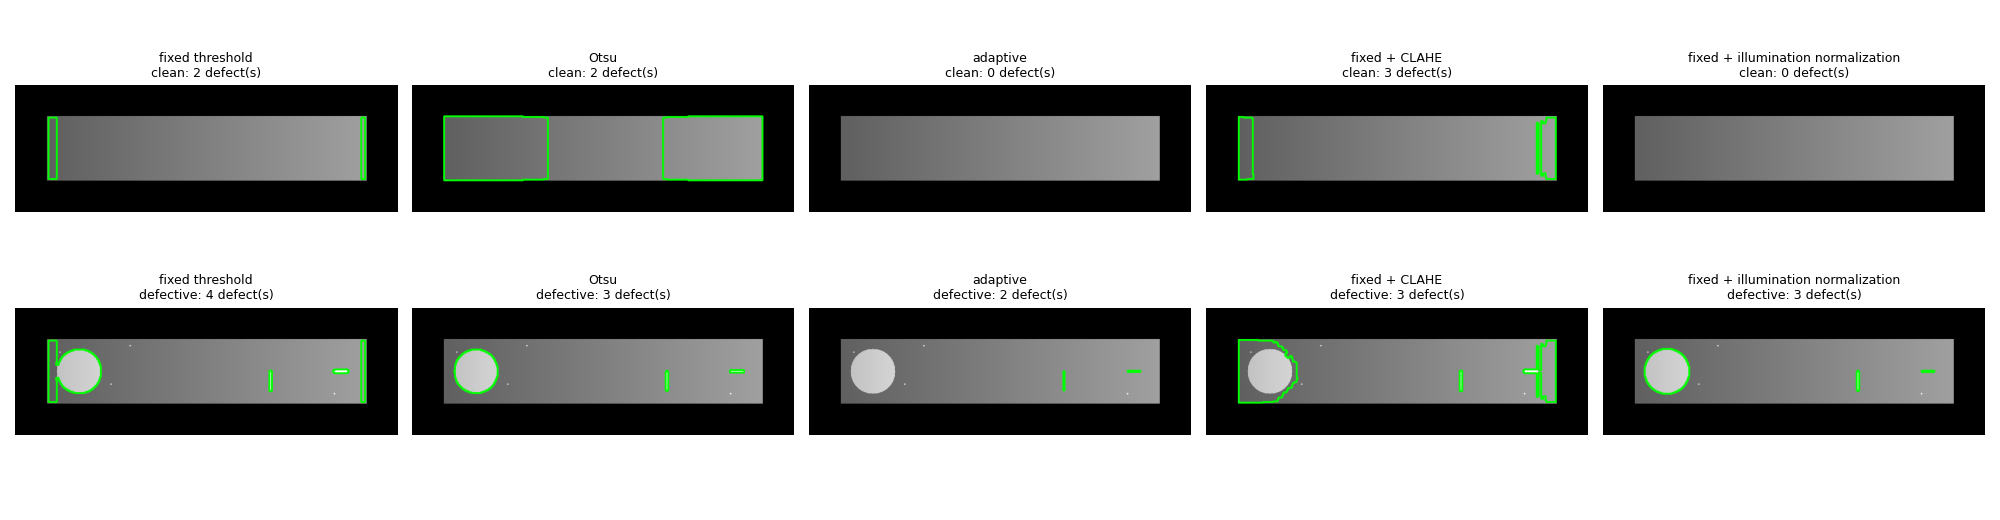
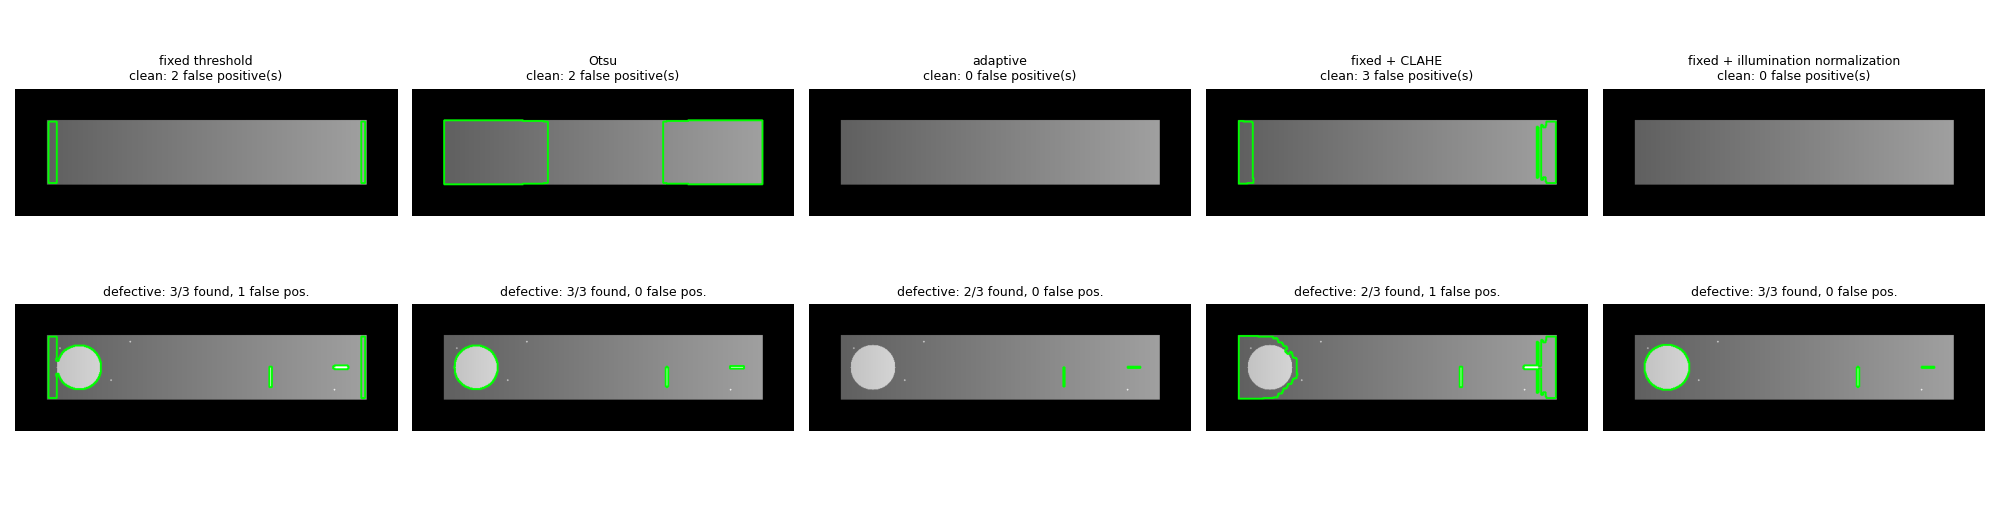
feat: add reference alignment (template matching, ECC) and detection scoring

diff --git a/demo.py b/demo.py
@@ -2,13 +2,22 @@ import cv2
 import matplotlib.pyplot as plt
 
 from src.defect_detector import WireDefectInspector
-from src.utils import apply_lighting_gradient, make_reference, make_test
+from src.utils import apply_lighting_gradient, make_reference, make_test, misalign, score_detections
 
 
 def show(ax, img_bgr, title):
     ax.imshow(cv2.cvtColor(img_bgr, cv2.COLOR_BGR2RGB))
     ax.set_title(title, fontsize=9)
     ax.axis("off")
+
+
+def evaluate(inspector, clean_img, defect_img):
+    """Run one inspector on a clean and a defective image; return both results plus scores."""
+    clean_result = inspector.inspect(clean_img)
+    defect_result = inspector.inspect(defect_img)
+    clean_fp = len(clean_result["defects"])  # on a clean part, every detection is a false positive
+    found, defect_fp = score_detections(defect_result["defects"])
+    return clean_result, defect_result, clean_fp, found, defect_fp
 
 
 def basic_demo(ref):
@@ -43,31 +52,75 @@ def lighting_demo(ref, left=0.7, right=1.3):
         "fixed + CLAHE": dict(use_clahe=True),
         "fixed + illumination\nnormalization": dict(normalize_illumination=True),
     }
-    parts = {
-        "clean": apply_lighting_gradient(make_test(ref, False, False, False, False), left, right),
-        "defective": apply_lighting_gradient(make_test(ref), left, right),
-    }
+    clean_img = apply_lighting_gradient(make_test(ref, False, False, False, False), left, right)
+    defect_img = apply_lighting_gradient(make_test(ref), left, right)
 
-    print(f"\nLighting gradient {left}-{right}  (real defects in the defective part: 3)")
-    print(f"{'method':38s}{'clean part':>12s}{'defective part':>16s}")
-    fig, axs = plt.subplots(len(parts), len(methods), figsize=(4 * len(methods), 2.6 * len(parts)))
+    print(f"\nLIGHTING: gradient {left}-{right}")
+    print(f"{'method':38s}{'clean: false pos':>18s}{'defective: found':>18s}{'false pos':>11s}")
+    fig, axs = plt.subplots(2, len(methods), figsize=(4 * len(methods), 5.2))
     for col, (name, kwargs) in enumerate(methods.items()):
-        inspector = WireDefectInspector(ref, **kwargs)
-        found = {}
-        for row, (part, img) in enumerate(parts.items()):
-            result = inspector.inspect(img)
-            found[part] = len(result["defects"])
-            show(axs[row][col], result["defect_img"], f"{name.replace(chr(10), ' ')}\n{part}: {found[part]} defect(s)")
-        print(f"{name.replace(chr(10), ' '):38s}{found['clean']:>12d}{found['defective']:>16d}")
+        flat = name.replace("\n", " ")
+        c, d, clean_fp, found, defect_fp = evaluate(WireDefectInspector(ref, **kwargs), clean_img, defect_img)
+        print(f"{flat:38s}{clean_fp:>18d}{found:>15d}/3{defect_fp:>11d}")
+        show(axs[0][col], c["defect_img"], f"{flat}\nclean: {clean_fp} false positive(s)")
+        show(axs[1][col], d["defect_img"], f"defective: {found}/3 found, {defect_fp} false pos.")
 
     fig.tight_layout()
     fig.savefig("demo_lighting.png", dpi=100)
+
+
+def alignment_demo(ref):
+    """Parts that arrive shifted or rotated. Does aligning to the reference first help?"""
+    methods = {
+        "no alignment": dict(),
+        "template matching": dict(align="template"),
+        "ECC": dict(align="ecc"),
+        "ECC + illumination norm.": dict(align="ecc", normalize_illumination=True),
+    }
+    # (label, dx, dy, rotation in degrees, lighting gradient or None)
+    misalignments = [
+        ("shift (3, 4) px", 3, 4, 0, None),
+        ("shift (-5, 5) px", -5, 5, 0, None),
+        ("subpixel shift (1.5, -2.5)", 1.5, -2.5, 0, None),
+        ("rotation 1.5 deg", 0, 0, 1.5, None),
+        ("shift (4, -3) + rot 2 deg", 4, -3, 2, None),
+        ("shift (4, -3) + rot 2 + uneven light", 4, -3, 2, (0.7, 1.3)),
+    ]
+    clean_base = make_test(ref, False, False, False, False)
+    defect_base = make_test(ref)
+
+    def prepare(img, dx, dy, angle, light):
+        img = misalign(img, dx, dy, angle)
+        return apply_lighting_gradient(img, *light) if light else img
+
+    print("\nALIGNMENT: real defects found (of 3) / false positives  [clean part false positives]")
+    print(f"{'misalignment':40s}" + "".join(f"{name:>26s}" for name in methods))
+    hard = {}
+    for label, dx, dy, angle, light in misalignments:
+        clean_img = prepare(clean_base, dx, dy, angle, light)
+        defect_img = prepare(defect_base, dx, dy, angle, light)
+        row = f"{label:40s}"
+        for name, kwargs in methods.items():
+            c, d, clean_fp, found, defect_fp = evaluate(WireDefectInspector(ref, **kwargs), clean_img, defect_img)
+            row += f"{f'{found}/3, {defect_fp} fp  [{clean_fp}]':>26s}"
+            if label.startswith("shift (4, -3) + rot 2 deg"):
+                hard[name] = (c, d, clean_fp, found, defect_fp)
+        print(row)
+
+    fig, axs = plt.subplots(2, len(methods), figsize=(4 * len(methods), 5.2))
+    for col, (name, (c, d, clean_fp, found, defect_fp)) in enumerate(hard.items()):
+        show(axs[0][col], c["defect_img"], f"{name}\nclean: {clean_fp} false positive(s)")
+        show(axs[1][col], d["defect_img"], f"defective: {found}/3 found, {defect_fp} false pos.")
+    fig.suptitle("Part shifted (4, -3) px and rotated 2 degrees", fontsize=10)
+    fig.tight_layout()
+    fig.savefig("demo_alignment.png", dpi=100)
 
 
 def main():
     ref = make_reference()
     basic_demo(ref)
     lighting_demo(ref)
+    alignment_demo(ref)
     plt.show()
 
 

diff --git a/src/defect_detector.py b/src/defect_detector.py
@@ -3,9 +3,12 @@ import numpy as np
 
 class WireDefectInspector:
     def __init__(self, refImg, threshold=30, min_defect_size=20, contour_color=(0, 255, 0), contour_thickness=2, blur_kernel=(5, 5), morph_kernel=(3, 3),
-                 threshold_mode="fixed", use_clahe=False, normalize_illumination=False, illum_ksize=101):
+                 threshold_mode="fixed", use_clahe=False, normalize_illumination=False, illum_ksize=101,
+                 align=None, align_search=20):
         if threshold_mode not in ("fixed", "otsu", "adaptive"):
             raise ValueError(f"threshold_mode must be 'fixed', 'otsu' or 'adaptive', got {threshold_mode!r}")
+        if align not in (None, "template", "ecc"):
+            raise ValueError(f"align must be None, 'template' or 'ecc', got {align!r}")
         self.refImg = refImg
         self.threshold = threshold
         self.min_defect_size = min_defect_size
@@ -16,13 +19,18 @@ class WireDefectInspector:
         self.threshold_mode = threshold_mode
         self.normalize_illumination = normalize_illumination
         self.illum_ksize = illum_ksize
+        self.align = align
+        self.align_search = align_search
+        self.aligned = None  # did the last inspect() find an alignment? (None if align is off)
         self.clahe = cv2.createCLAHE(clipLimit=2.0, tileGridSize=(8, 8)) if use_clahe else None
         
         gray_ref = cv2.cvtColor(self.refImg, cv2.COLOR_BGR2GRAY)
+        self.ref_gray = gray_ref
         self.ref_illum = self._illumination(gray_ref)
         self.ref_blurred = self._gray_to_blurred(gray_ref, match_illumination=False)
 
     def inspect(self, testImg):
+        testImg = self._align_to_reference(testImg)  # no-op unless align is set
         test_blurred = self._preprocess(testImg)
         thresh = self._compute_diff(test_blurred)    
         contours= self._find_defects(thresh)
@@ -39,12 +47,45 @@ class WireDefectInspector:
         return {
             "status": decision,
             "defects": defects,
-            "defect_img": defect_img
+            "defect_img": defect_img,
+            "aligned": self.aligned
         }
     
     def _preprocess(self, img):
         gray = cv2.cvtColor(img, cv2.COLOR_BGR2GRAY)
         return self._gray_to_blurred(gray, match_illumination=True)
+
+    def _align_to_reference(self, img):
+        # Warps the whole BGR image, so the returned defects and the drawn outlines are in
+        # the reference's coordinates and line up with the picture we return.
+        if self.align is None:
+            return img
+        gray = cv2.cvtColor(img, cv2.COLOR_BGR2GRAY)
+        h, w = gray.shape
+        self.aligned = True
+        if self.align == "template":
+            # translation only, whole pixels: find where the reference (minus a border of
+            # align_search px) sits inside the test image. Handles shifts up to align_search.
+            pad = self.align_search
+            template = self.ref_gray[pad:-pad, pad:-pad]
+            scores = cv2.matchTemplate(gray, template, cv2.TM_CCOEFF_NORMED)
+            _, _, _, (x, y) = cv2.minMaxLoc(scores)
+            warp = np.float32([[1, 0, pad - x], [0, 1, pad - y]])
+            return cv2.warpAffine(img, warp, (w, h), flags=cv2.INTER_LINEAR, borderMode=cv2.BORDER_REPLICATE)
+
+        # "ecc": translation + rotation, subpixel. Iterative, so it needs a starting point
+        # that is already close (a few px, a few degrees).
+        warp = np.eye(2, 3, dtype=np.float32)
+        criteria = (cv2.TERM_CRITERIA_EPS | cv2.TERM_CRITERIA_COUNT, 100, 1e-6)
+        try:
+            _, warp = cv2.findTransformECC(self.ref_gray, gray, warp, cv2.MOTION_EUCLIDEAN, criteria, None, 5)
+        except cv2.error:
+            # No convergence: leave the image as is. The diff will then light up, so the
+            # part fails safe as Defective; self.aligned tells you why.
+            self.aligned = False
+            return img
+        return cv2.warpAffine(img, warp, (w, h), flags=cv2.INTER_LINEAR | cv2.WARP_INVERSE_MAP,
+                              borderMode=cv2.BORDER_REPLICATE)
 
     def _illumination(self, gray):
         # Low-frequency brightness map. A median (not a Gaussian) so that a big defect

diff --git a/src/utils.py b/src/utils.py
@@ -38,3 +38,30 @@ def apply_lighting_gradient(img, left=0.7, right=1.3):
     """Simulate uneven lighting: scale brightness linearly from `left` to `right` across the width."""
     gain = np.linspace(left, right, img.shape[1], dtype=np.float32)[None, :, None]
     return np.clip(img.astype(np.float32) * gain, 0, 255).astype(np.uint8)
+
+
+def misalign(img, dx=0, dy=0, angle=0.0):
+    """Simulate a part that arrived shifted (dx, dy px) and/or rotated (degrees) relative to the reference."""
+    h, w = img.shape[:2]
+    M = cv2.getRotationMatrix2D((w / 2, h / 2), angle, 1.0)
+    M[:, 2] += (dx, dy)
+    return cv2.warpAffine(img, M, (w, h), flags=cv2.INTER_LINEAR, borderMode=cv2.BORDER_CONSTANT, borderValue=0)
+
+
+# (x, y, w, h) of the three real defects that make_test() draws
+TRUE_DEFECT_BOXES = [(65, 65, 71, 71), (398, 99, 5, 33), (499, 98, 23, 5)]
+
+
+def score_detections(defects, truth=TRUE_DEFECT_BOXES, min_iou=0.3):
+    """Return (real defects found, false positives). A detection is a hit if it overlaps a
+    true defect box with IoU >= min_iou. Counting detections alone hides false positives."""
+    def iou(a, b):
+        ix = max(0, min(a[0] + a[2], b[0] + b[2]) - max(a[0], b[0]))
+        iy = max(0, min(a[1] + a[3], b[1] + b[3]) - max(a[1], b[1]))
+        inter = ix * iy
+        return inter / (a[2] * a[3] + b[2] * b[3] - inter)
+
+    boxes = [(d["x"], d["y"], d["w"], d["h"]) for d in defects]
+    found = sum(any(iou(t, b) >= min_iou for b in boxes) for t in truth)
+    false_positives = sum(not any(iou(t, b) >= min_iou for t in truth) for b in boxes)
+    return found, false_positives
